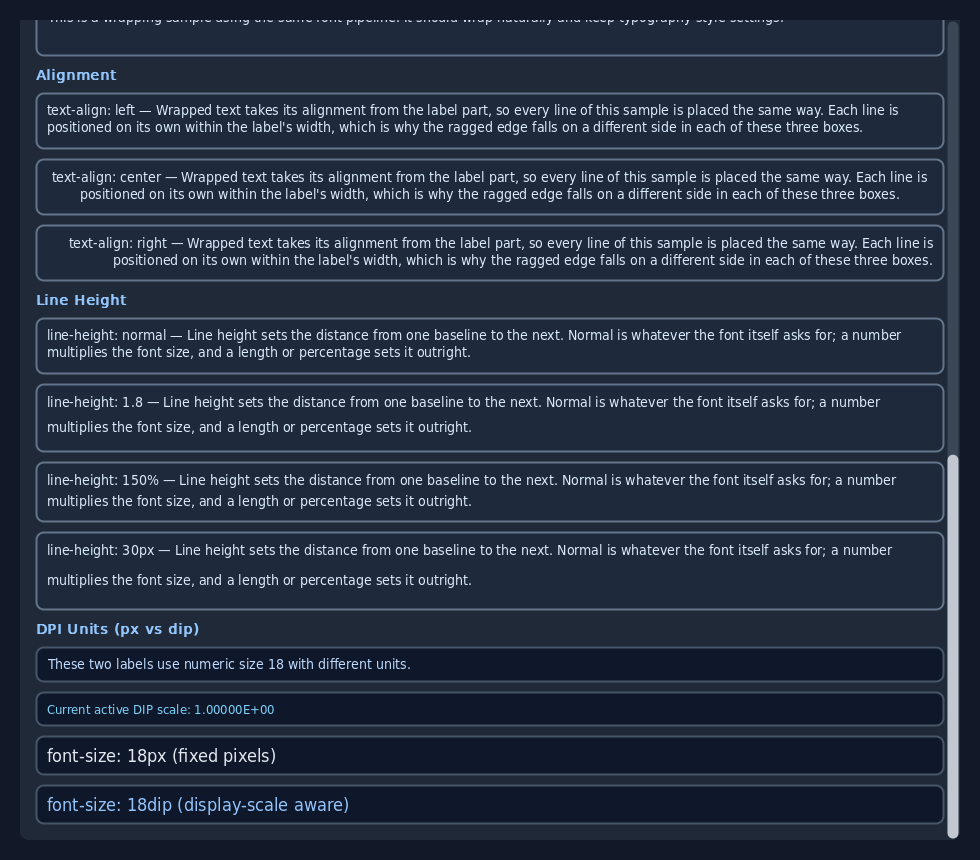
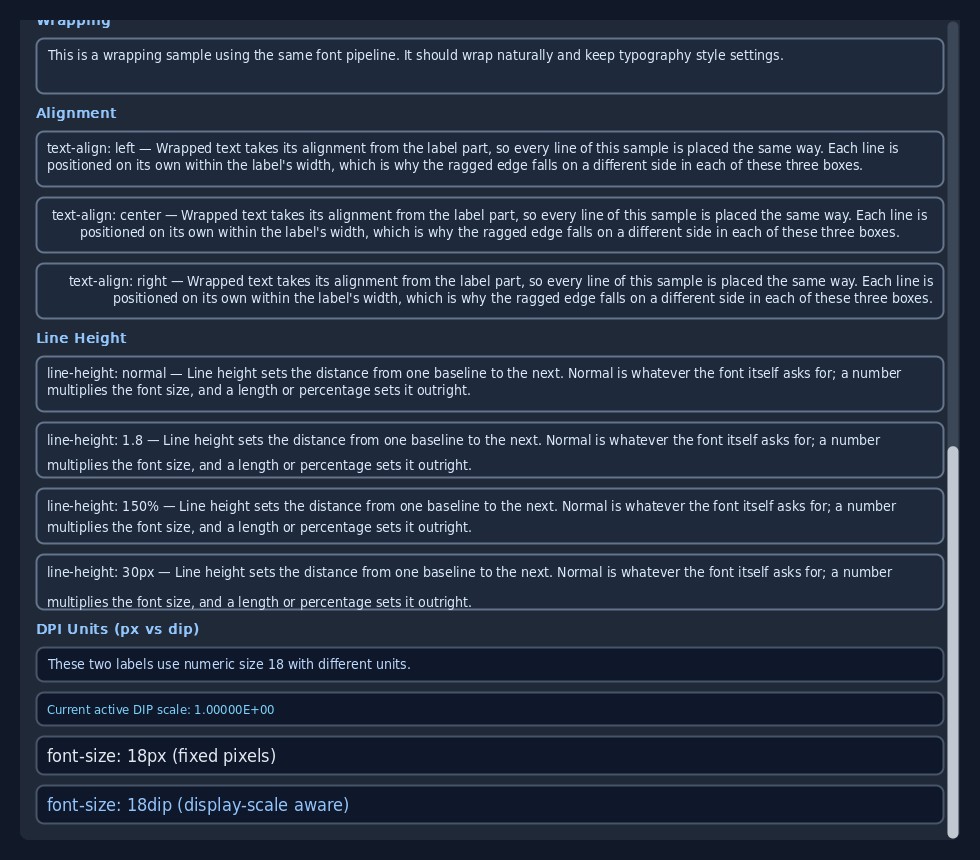
Examples: drop flex-shrink where the layout no longer needs it
Sixteen declarations across six stylesheets held content open against a
minimum that used to be reported one unwrapped line tall. Computing it
at the assigned width made them unnecessary: five of the six render
byte-identically without them, and font_example renders correctly and
more compactly, so its captures are regenerated.

grid_example and overflow_example keep theirs. A box with overflow-y:
auto has no automatic minimum by design, and an empty box's declared
height is a flex base rather than a floor, so flex-shrink: 0 is how
both say "keep this size" and a browser would need it too.

Changed region(s): [[0.0306, 0.0, 0.9796, 0.7256]]

diff --git a/examples/css/font_example.css b/examples/css/font_example.css
@@ -78,7 +78,6 @@
 }
 
 .section_title {
-  flex-shrink: 0;
 }
 
 .sample {
@@ -88,7 +87,6 @@
   border-style: solid;
   border-color: rgb(71, 85, 105);
   border-radius: 8px;
-  flex-shrink: 0;
 }
 
 .sample::label {
@@ -161,7 +159,6 @@
   border-color: rgb(100, 116, 139);
   border-radius: 8px;
   min-height: 56px;
-  flex-shrink: 0;
 }
 
 .wrap_sample::label {
@@ -199,9 +196,7 @@
 }
 
 .title {
-  flex-shrink: 0;
 }
 
 .hint {
-  flex-shrink: 0;
 }

diff --git a/examples/css/image_example.css b/examples/css/image_example.css
@@ -14,7 +14,6 @@
 }
 
 .title {
-  flex-shrink: 0;
 }
 
 .subtitle::label {
@@ -23,7 +22,6 @@
 }
 
 .subtitle {
-  flex-shrink: 0;
 }
 
 .section-title::label {
@@ -33,7 +31,6 @@
 }
 
 .section-title {
-  flex-shrink: 0;
 }
 
 .format-grid {
@@ -51,7 +48,6 @@
   grid-template-columns: repeat(5, 1fr);
   gap: 16px;
   flex-grow: 0;
-  flex-shrink: 0;
   height: 96px;
 }
 
@@ -73,7 +69,6 @@
 }
 
 .card-label {
-  flex-shrink: 0;
 }
 
 .image {

diff --git a/examples/css/dialog_example.css b/examples/css/dialog_example.css
@@ -185,15 +185,12 @@
 }
 
 .title {
-  flex-shrink: 0;
 }
 
 .hint {
-  flex-shrink: 0;
 }
 
 .dialog-title {
-  flex-shrink: 0;
 }
 
 .custom-content {

diff --git a/examples/css/list_box_example.css b/examples/css/list_box_example.css
@@ -270,7 +270,6 @@
 }
 
 .panel-title {
-  flex-shrink: 0;
 }
 
 .grid-cell {

diff --git a/examples/css/svg_example.css b/examples/css/svg_example.css
@@ -78,7 +78,6 @@
 }
 
 .caption {
-  flex-shrink: 0;
 }
 
 .caption::label {

diff --git a/examples/css/text_editor_example.css b/examples/css/text_editor_example.css
@@ -190,5 +190,4 @@
 }
 
 .title {
-  flex-shrink: 0;
 }
